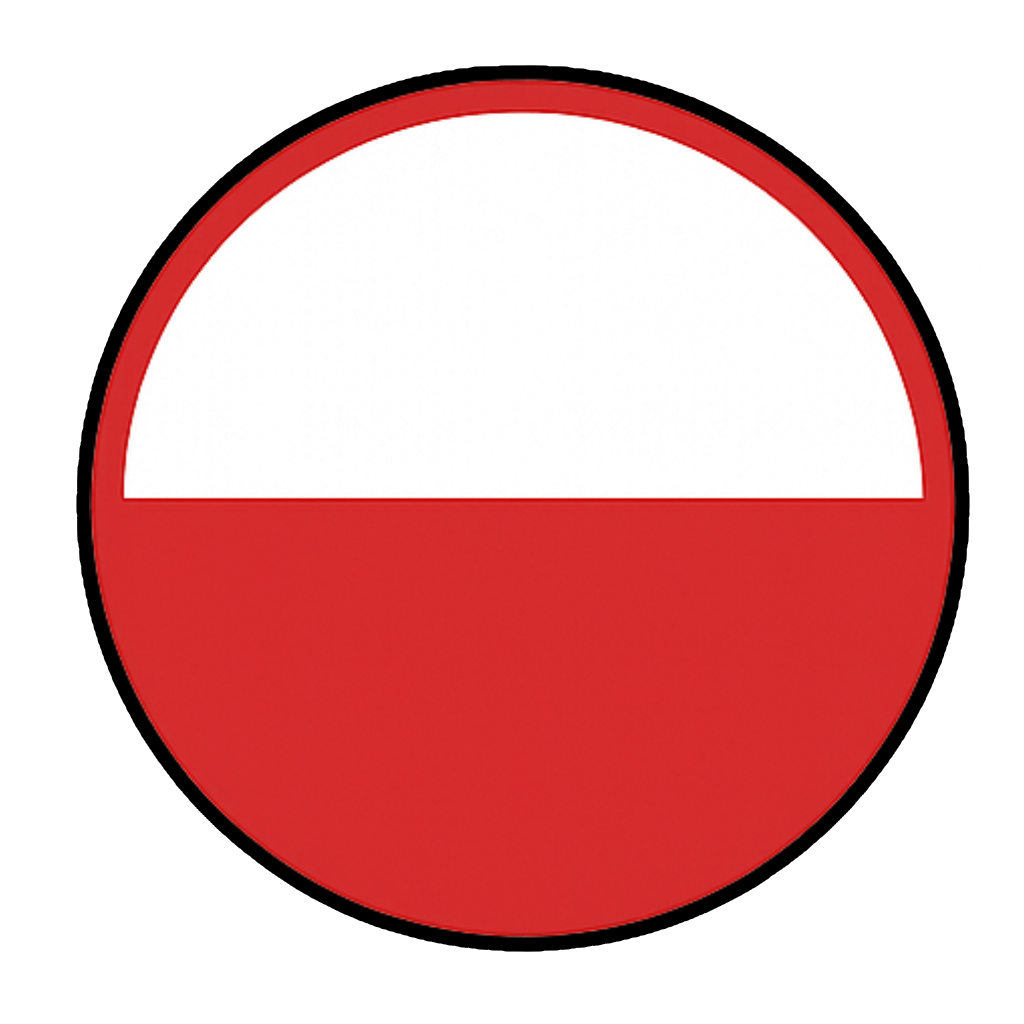
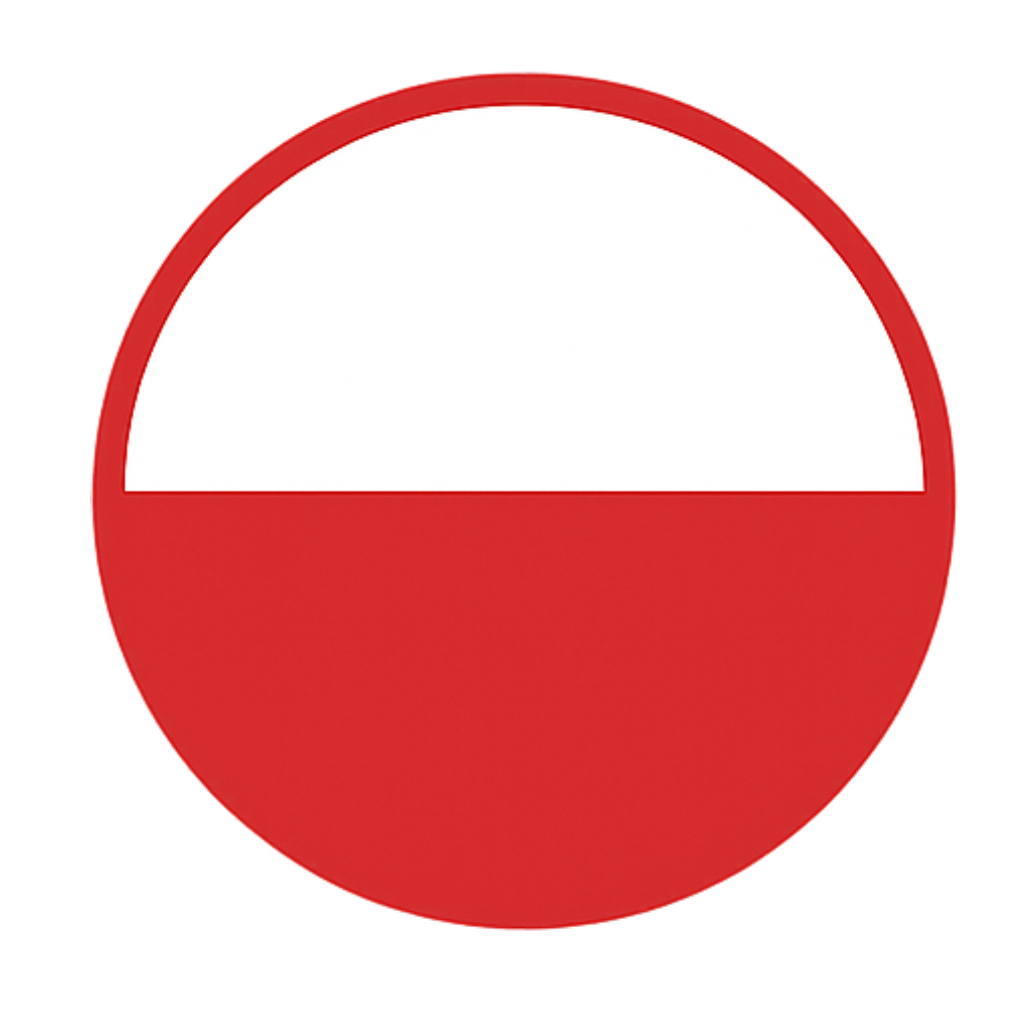
refactor: news menu and update content

Changed region(s): [[0.0625, 0.0625, 0.9688, 0.9375]]

diff --git a/aktualnosci.html b/aktualnosci.html
@@ -8,6 +8,37 @@
     <link rel="stylesheet" href="https://fonts.googleapis.com/css2?family=Inter:wght@300;400;600;700;800&family=Fraunces:wght@400;500;600;700&display=swap">
 </head>
 <style>
+/* 
+    .news-header {
+        display: flex;
+        justify-content: center;
+    }
+
+    .news-header__logo-container {
+        display: flex;
+        justify-content: center;
+        align-items: center;
+
+        padding: var(--space-sm);
+
+        margin: var(--space-md) auto;
+
+        text-decoration: none;
+
+        color: var(--color-text);
+        background: var(--color-overlay);
+        border-radius: var(--radius);
+
+        text-shadow:
+            -1px -1px 0 #fff,
+             1px -1px 0 #fff,
+            -1px  1px 0 #fff,
+             1px  1px 0 #fff;
+    }
+
+    .news-header__logo {
+        display: none;
+    } */
 
 </style>
 <body>
@@ -22,49 +53,101 @@
    - SMACSS: Base, Layout, Module, State architecture
 */ -->
     <div class="page">
-                <div class="topbar">
-                    <div class="topbar__logo-container">
-                        <img class="topbar__logo" src="src/PoP-logo.svg" alt="logo firmy Piesik od Pokoleń przedstawiające psa w czapce kucharskiej i tasak">
-                    </div>
+            
+        <div class="topbar">
+                <a href="index.html" class="logo-container--topbar">
+                <img class="logo--topbar"
+                    src="src/PoP-logo.svg"
+                    alt="logo firmy Piesik od Pokoleń przedstawiające psa w czapce kucharskiej i tasak">
+                </a>
+
                     <ul class="menu">
-                        <li class="menu__item"><a class="menu__button" href="index.html">Farma</a></li>
+                        <li class="menu__item"><a class="menu__button" href="produkty.html">Produkty</a></li>
                         <li class="menu__item menu__item--active"><a class="menu__button" href="aktualnosci.html">Aktualności</a></li>
-                        <li class="menu__item menu__products"><a class="menu__button" href="produkty.html">Produkty</a></li>
-                                <!-- <li>Psina</li>
-                                <li>Nabiał</li>
-                                <li>Szczenięcina</li>
-                                <li>Kocina</li> -->
-                            <li class="menu__item"><a class="menu__button" href="kontakt.html">Kontakt</a></li>
-                            <li class="menu__item"><a class="menu__button" href="misja.html">Nasza Misja</a></li>
+                        <li class="menu__item"><a class="menu__button" href="kontakt.html">Kontakt</a></li>
+                        <li class="menu__item"><a class="menu__button" href="misja.html">Nasza Misja</a></li>
                     </ul>
                 </div>
+                <a href="index.html" class="brand-container brand">
+                    <!-- logo inside brand button -->
+                    <img class="brand__logo logo--brand"
+                        src="src/PoP-logo.svg"
+                        alt="logo firmy Piesik od Pokoleń przedstawiające psa w czapce kucharskiej i tasak">
+                    <span class="brand__title menu__button">Piesik od Pokoleń S.A.</span>
+                </a>
                 <div class="news">
                     <header class="news-header">
                         <h1 class="news-header__title">AKTUALNOŚCI</h1>
                     </header>
-                    <main class="news-main">
-                        <!-- https://sokolowsa.pl/aktualne-wydarzenia -->
+                    <main class="news-main">  
+                        
+                          <!-- https://sokolowsa.pl/aktualne-wydarzenia -->
+                        
+                        <article class="news-section">
+                            <div class="news-section__container">
+                                <time class="news-section__date" datetime="2024-09-25">1.06.2026</time>
+                                <div class="news-section__title-container">
+                                    <img src="src/delikatna_psinka.png" class="news-section__img" alt="Szynka - Delikatna psinka">
+                                    <h2 class="news-section__title">Mamy okazję Państwu zaprezentować naszą pyszną nowość - "Delikatna psinka". </h2>
+                                </div>
+                                <p class="news-section__description">Szynka stworzona z myślą o wybrednych podniebieniach i wielkich apetytach. Delikatny smak, starannie dobrane składniki i jakość, które pokocha każdy wielbiciel psiego mięsa.</p>
+                            </div>
+                        </article>
+
+                        
+                        <article class="news-section">
+                            <div class="news-section__container">
+                                <time class="news-section__date" datetime="2025.10.12">12.10.2025</time>
+                                <div class="news-section__title-container">
+                                    <img src="src/tethered_breeding.jpg" class="news-section__img" alt="pies przywiązany na łańcucha">
+                                    <h2 class="news-section__title">Drodzy Klienci, mamy dla Was bardzo dobrą informację! Po trudnym czasie związanym z pożarem na naszej farmie musieliśmy podjąć decyzje, które pozwolą nam utrzymać rodzinne gospodarstwo i nadal dostarczać mięso w przystępnych cenach.</h2>
+                                </div>
+                                <p class="news-section__description">Wprowadziliśmy w tym celu system chowu uwięziowego, który jest stosowany w wielu gospodarstwach na świecie – szczególnie w mniejszych stadach, gdzie liczy się kontrola nad żywieniem i kosztami. Według danych branżowych, miliardy zwierząt na całym świecie są utrzymywane w tym systemie.<br><br>
+                        Jak wygląda chów uwięziowy?<br><br>
+                        W systemie uwięziowym każde zwierzę jest przypięte do stanowiska za pomocą łańcucha lub specjalnego pasa o długości około jednego metra. <br>
+                        Dzięki temu:<br>
+                        - zwierzę ma możliwość swobodnego wstawania i kładzenia się,<br>
+                        - może sięgnąć do karmy i wody, które są stale dostępne,<br>
+                        - hodowca ma pełną kontrolę nad żywieniem i zdrowiem każdej sztuki.<br><br>
+                        Każde stanowisko jest zgodnie z normami unijnymi dotyczącymi minimalnych wymiarów stanowisk i dostępu do wody.
+                        A co z mięsem z wolnego wybiegu? Nie musicie się martwić – nasze mięso z chowu wolnowybiegowego nadal będzie dostępne w ofercie. Chcemy, aby każdy klient miał wybór zgodny ze swoimi wartościami i preferencjami.
+                        Serdecznie zachęcamy do składania zamówień z nową, znacznie bardziej atrakcyjną ceną!</p>
+                            </div>
+                        </article>
+
+
+                        <article class="news-section">
+                            <div class="news-section__container">
+                                <time class="news-section__date" datetime="2025-09-8">8.09.2025</time>
+                                <div class="news-section__title-container">
+                                    <img src="/src/farm_on_fire.jpg" class="news-section__img" alt="farma w ogniu">
+                                    <h2 class="news-section__title">Drodzy Konsumenci, przez ostatni czas nasza społeczność przeżywa prawdziwą tragedię - nasze gospodarstwo zostało dotknięte pożarem. </h2>
+                                </div>
+                                <p class="news-section__description"> Przepraszamy za opóźnienia w zamówieniach oraz za to, że byliśmy mniej aktywni w internecie - cały zespół pracował na miejscu, pomagając minimalizować straty, przede wszystkim szukać zwierząt, którym w popłochu udało się uciec przed ogniem. Dobra wiadomość jest taka, że już wiele z nich udało się odnaleźć i będą jeszcze mogły trafić na Państwa talerze! Zła niestety jest taka, że jeszcze więcej z nich spaliło się. To, co się stało, to nie tylko zgliszcza budynków, lecz prawdziwy dramat - to utrata dorobku całego życia: maszyn, dokumentacji i miejsc hodowli zwierząt. Koszty odbudowy i strat to setki tysięcy złotych (maszyny, budynki, zapasy karm), jest to dla nas strata zagrażająca dalszemu funkcjonowaniu całej rodziny. Dla osób chcących pomóc, zachęcamy rozważyć przekazanie drobnej wpłaty lub materiałów (zabezpieczone jedzenie dla zwierząt, skrzynie, materiały budowlane). Każda forma wsparcia ma ogromne znaczenie. </p>
+                            </div>
+                        </article>
+                   
                         <article class="news-section">
                             <div class="news-section__container">
                                 <time class="news-section__date" datetime="2025-06-22">22.06.2025</time>
                                 <div class="news-section__title-container">
-                                    <img src="src/parowcie.jpg" class="news-section__img" alt="Przysmak dla dzieci - parówki Małe Piesiki">
+                                    <img src="src/male_piesiki.jpg" class="news-section__img" alt="Przysmak dla dzieci - parówki Małe Piesiki">
                                     <h2 class="news-section__title">Ze względu na ostatnie wysokie zainteresowanie korzyściami ze spożywania naszych produktów dla najmłodszych, stworzyliśmy specjalną linię produktów dla dzieci!</h2>
                                 </div>
                                 <p class="news-section__description">Małe Piesiki to smakowite kiełbaski o wyjątkowym smaku. Stanowią doskonałe źródło wysokiej jakości białka, a jednocześnie charakteryzują się zmniejszonym poziomem tłuszczu. W ich składzie znajdziemy aż 95% mięsa! Zostały subtelnie doprawione i wyprodukowane z najwyższej jakości mięsa psiego wzbogaconego kociną. Dzięki braku naturalnych osłonek są niezwykle praktyczne w przygotowaniu - można je spożywać zarówno po podgrzaniu na gorąco, jak i jako chłodną przekąskę. Małe Piesiki to doskonały wybór nie tylko dla dzieci, ale także dla wszystkich prowadzących aktywny tryb życia i dbających o zbilansowane odżywianie. To homogenizowany, wędzony i parzony wyrób z psiego mięsa z dodatkiem kociny.</p>
                             </div>
                         </article>
 
-                        <!-- <article class="news-section">
+                        <article class="news-section">
                             <div class="news-section__container">
                                 <time class="news-section__date" datetime="2024-09-25">25.09.2024</time>
                                 <div class="news-section__title-container">
-                                    <img src="src/Pomagamy.png" class="news-section__img" alt="">
-                                    <h2 class="news-section__title">W odpowiedzi na ogromne potrzeby pomocy po powodzi na południowo-zachodnich terenach Polski, firma Piesik S.A. wznowiła akcję „Piesik Pomaga od Pokoleń”. Przekazano ponad tonę konserw psiego mięsa dla poszkodowanych, współpracując z Polskim Czerwonym Krzyżem i Caritasem.</h2>
+                                    <img src="src/pomagamy.png" class="news-section__img" alt="ikona symbolizująca pomoc humanitarną w postaci puszki konserwowej">
+                                    <h2 class="news-section__title"> Przekazano konserwy psiego mięsa dla poszkodowanych, współpracując z Polskim Czerwonym Krzyżem i Caritasem.</h2>
                                 </div>
-                                <p class="news-section__description">Powódź na południowo-zachodnich terenach Polski stworzyła ogromne wyzwanie w organizacji skutecznej pomocy dla tysięcy poszkodowanych. Firma Piesik od Pokoleń, znana z odpowiedzialności społecznej, aktywnie wspiera ogólnopolską akcję pomocową.
+                                <p class="news-section__description">W odpowiedzi na ogromne potrzeby pomocy po powodzi na południowo-zachodnich terenach Polski, firma Piesik S.A. wznowiła akcję „Piesik Pomaga od Pokoleń”. Powódź na południowo-zachodnich terenach Polski stworzyła ogromne wyzwanie w organizacji skutecznej pomocy dla tysięcy poszkodowanych. Firma Piesik od Pokoleń, znana z odpowiedzialności społecznej, aktywnie wspiera ogólnopolską akcję pomocową.
 
-                                Piesik od Pokoleń przekazała około 35 000 konserw mięsnych – trwałych, łatwych w transporcie i o długim terminie przydatności. Aby skutecznie odpowiedzieć na potrzeby powodzian, firma współpracuje z organizacjami pozarządowymi działającymi na zalanych obszarach. Przekazane produkty, dzięki Caritasowi i Polskiemu Czerwonemu Krzyżowi, trafią tam, gdzie są najbardziej potrzebne.</p>
+                                Piesik od Pokoleń przekazała około 3500 konserw mięsnych – trwałych, łatwych w transporcie i o długim terminie przydatności. Aby skutecznie odpowiedzieć na potrzeby powodzian, firma współpracuje z organizacjami pozarządowymi działającymi na zalanych obszarach. Przekazane produkty, dzięki Caritasowi i Polskiemu Czerwonemu Krzyżowi, trafią tam, gdzie są najbardziej potrzebne.</p>
                             </div>
                         </article>
 
@@ -72,7 +155,7 @@
                             <div class="news-section__container">
                                 <time class="news-section__date" datetime="2024-05-27">27.05.2024</time>
                                 <div class="news-section__title-container">
-                                    <img src="src/" class="news-section__img" alt="mapa exportu">
+                                    <img src="src/mapa_exportu.png" class="news-section__img" alt="mapa exportu">
                                     <h2 class="news-section__title">Piesik od Pokoleń S.A. jako pierwsza firma w Polsce ze zgodą na export psiny do Chin!</h2>
                                 </div>
                                 <p class="news-section__description">Piesik od Pokoleń S.A. jako pierwszy polski producent otrzymał zgodę na eksport psiny do Chin, dzięki pomyślnemu zakończeniu pełnej procedury rejestracyjnej. Uprawnienia uzyskał Oddział Piesik od Pokoleń S.A. w Koronowie, spełniający najwyższe standardy jakości i eksportu.
@@ -82,7 +165,7 @@
                                 Prezes Zarządu, Emil Piesik, podkreślił znaczenie tego osiągnięcia: – Jesteśmy dumni, że jako pierwsi w Polsce uzyskaliśmy możliwość eksportu psiny do Chin, jednego z kluczowych rynków zagranicznych. To ważny krok w rozwoju naszej firmy, który pozwoli nam dotrzeć do szerszego grona odbiorców, przy jednoczesnym utrzymaniu najwyższych standardów jakości i troski o dobrostan zwierząt..  
                                 Piesik od Pokoleń S.A., jako jeden z czołowych producentów psiny w Polsce, eksportuje ok. 48% swojej produkcji, a koronowska psina cieszy się uznaniem zarówno w kraju, jak i na rynkach zagranicznych.</p>
                             </div>
-                        </article> -->
+                        </article>
 
 
                         <!-- news-section template -->

diff --git a/style.css b/style.css
@@ -496,11 +496,12 @@ footer {
         display: none;
     }
 
-/* HEADERS */
+/* HEADERSy podstron */
 .news-header, .products-header, .contact-header, .mission-header, .real-mission-header, .welfare-header, .program-header, .career-header, .partners-header{
-/* 🟡 do ustawienia z indexem potem */
-    z-index: 1;
+   z-index: 1;
     opacity: 1;
+/* czy ^ z-index i opacity potrzebne ? */
+text-align: center;
 }
 
  .brand-container{
@@ -619,6 +620,7 @@ margin: 0 auto;
 
     font-size: var(--text-base);
 }
+
 
 .products-lists{
   display: flex;
